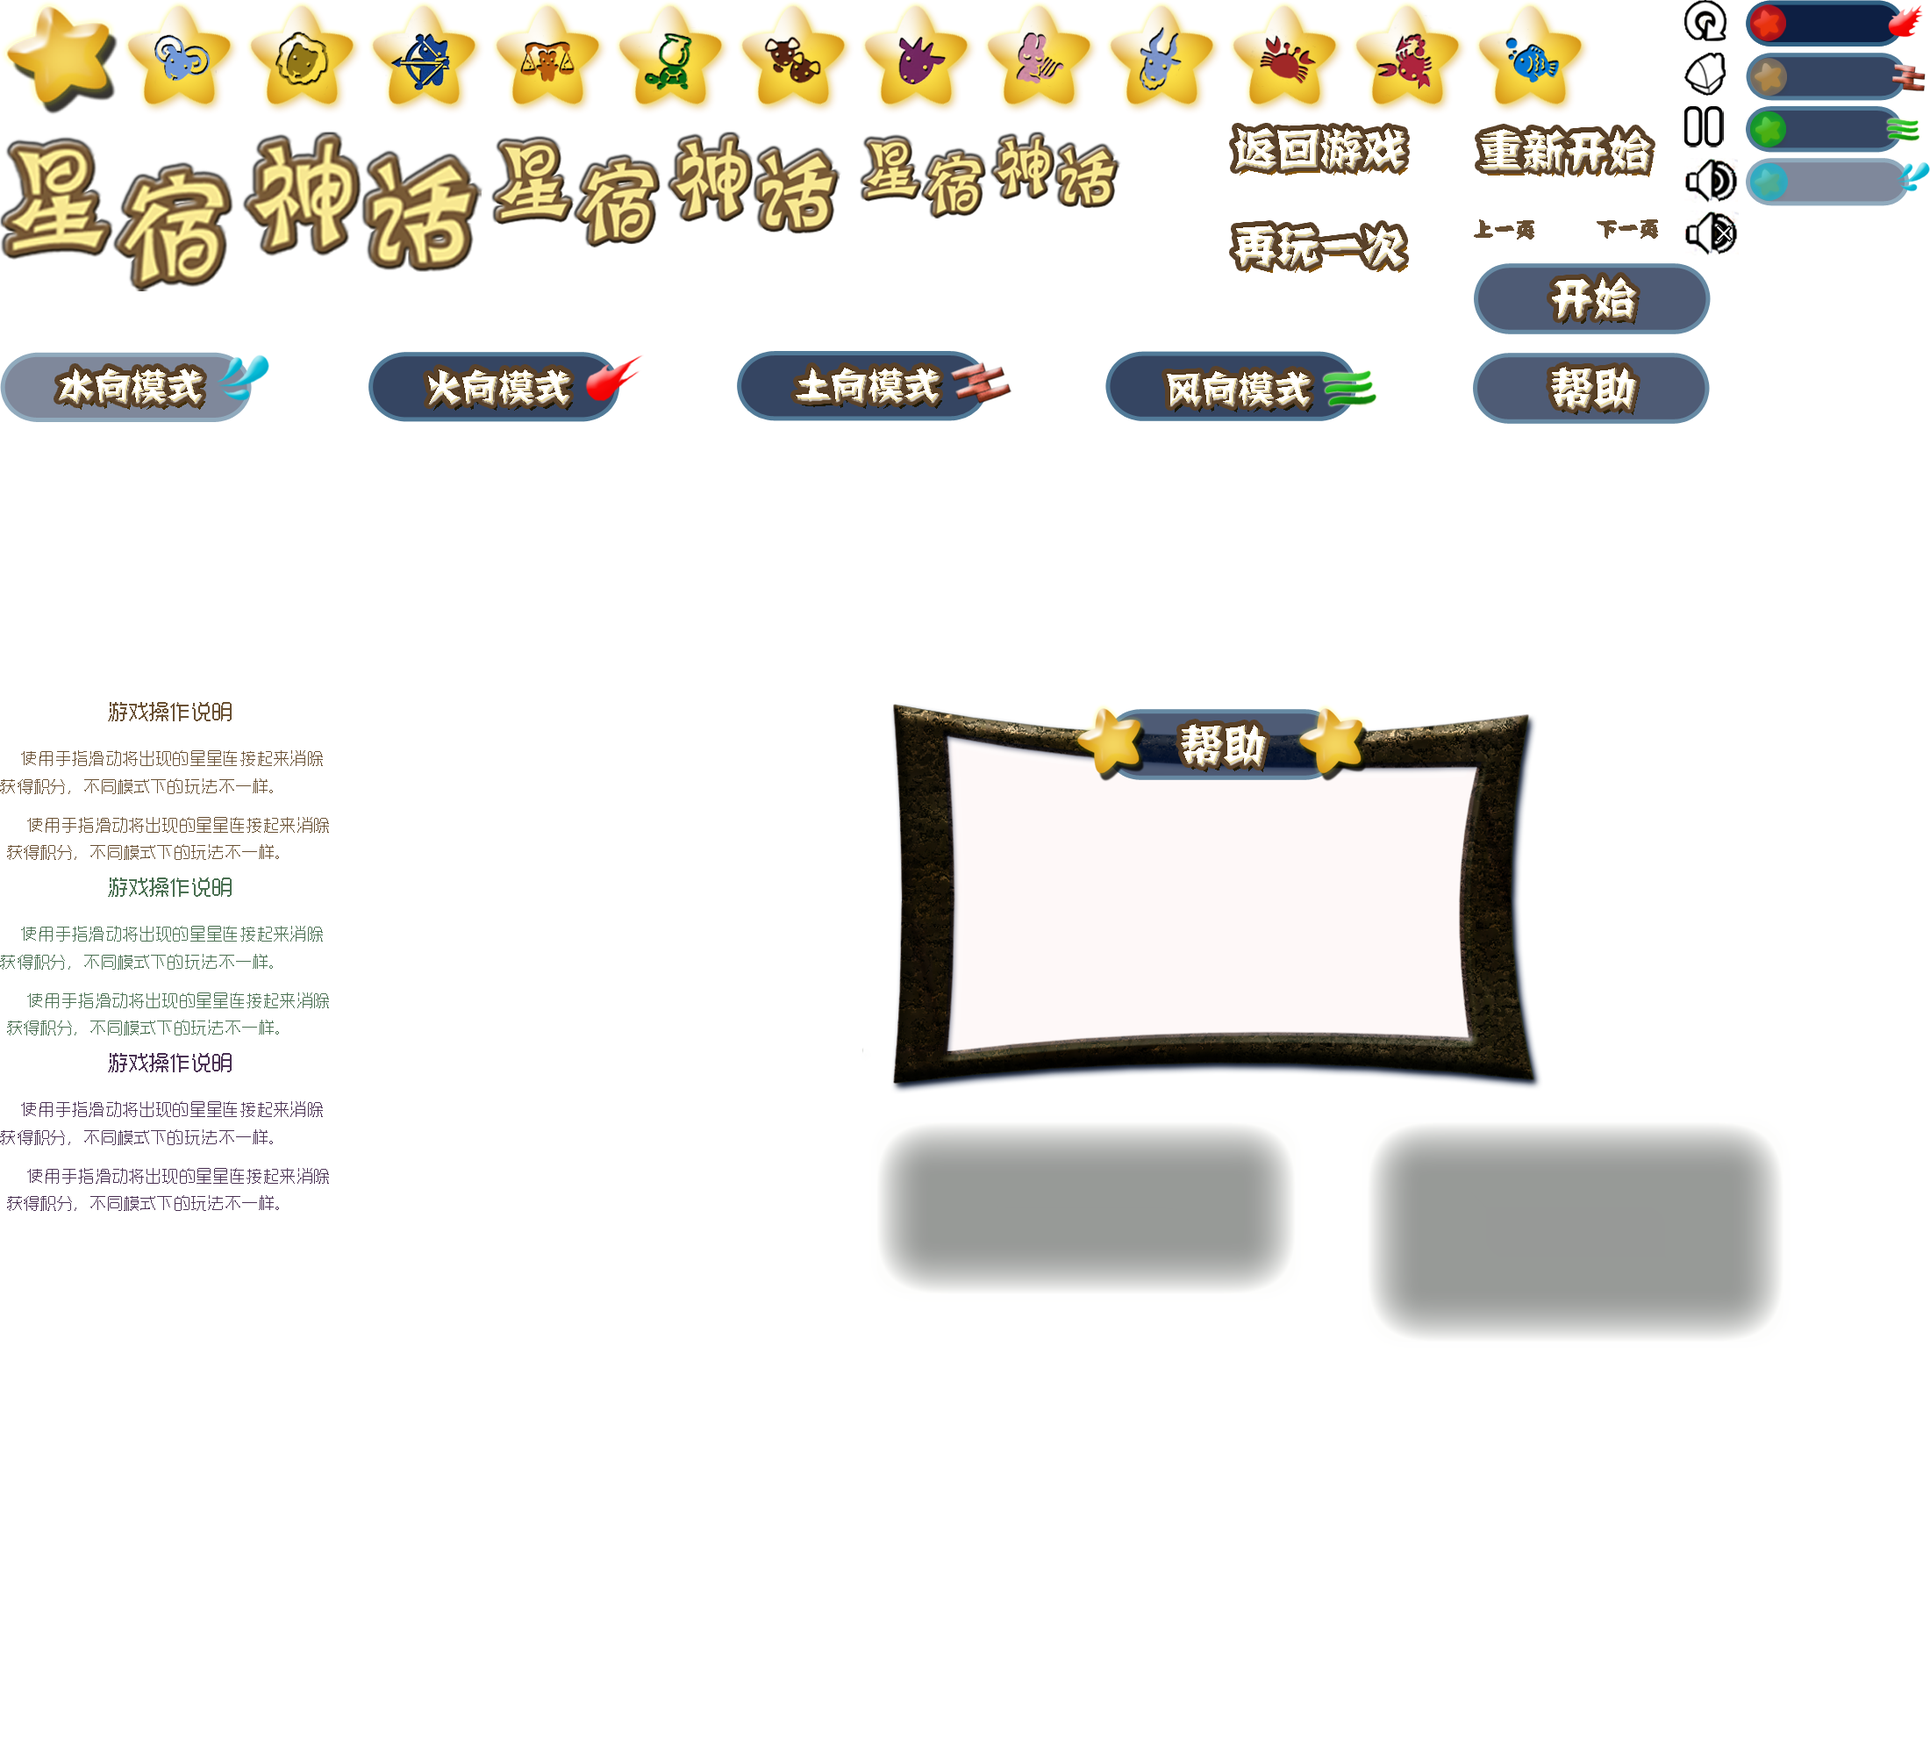
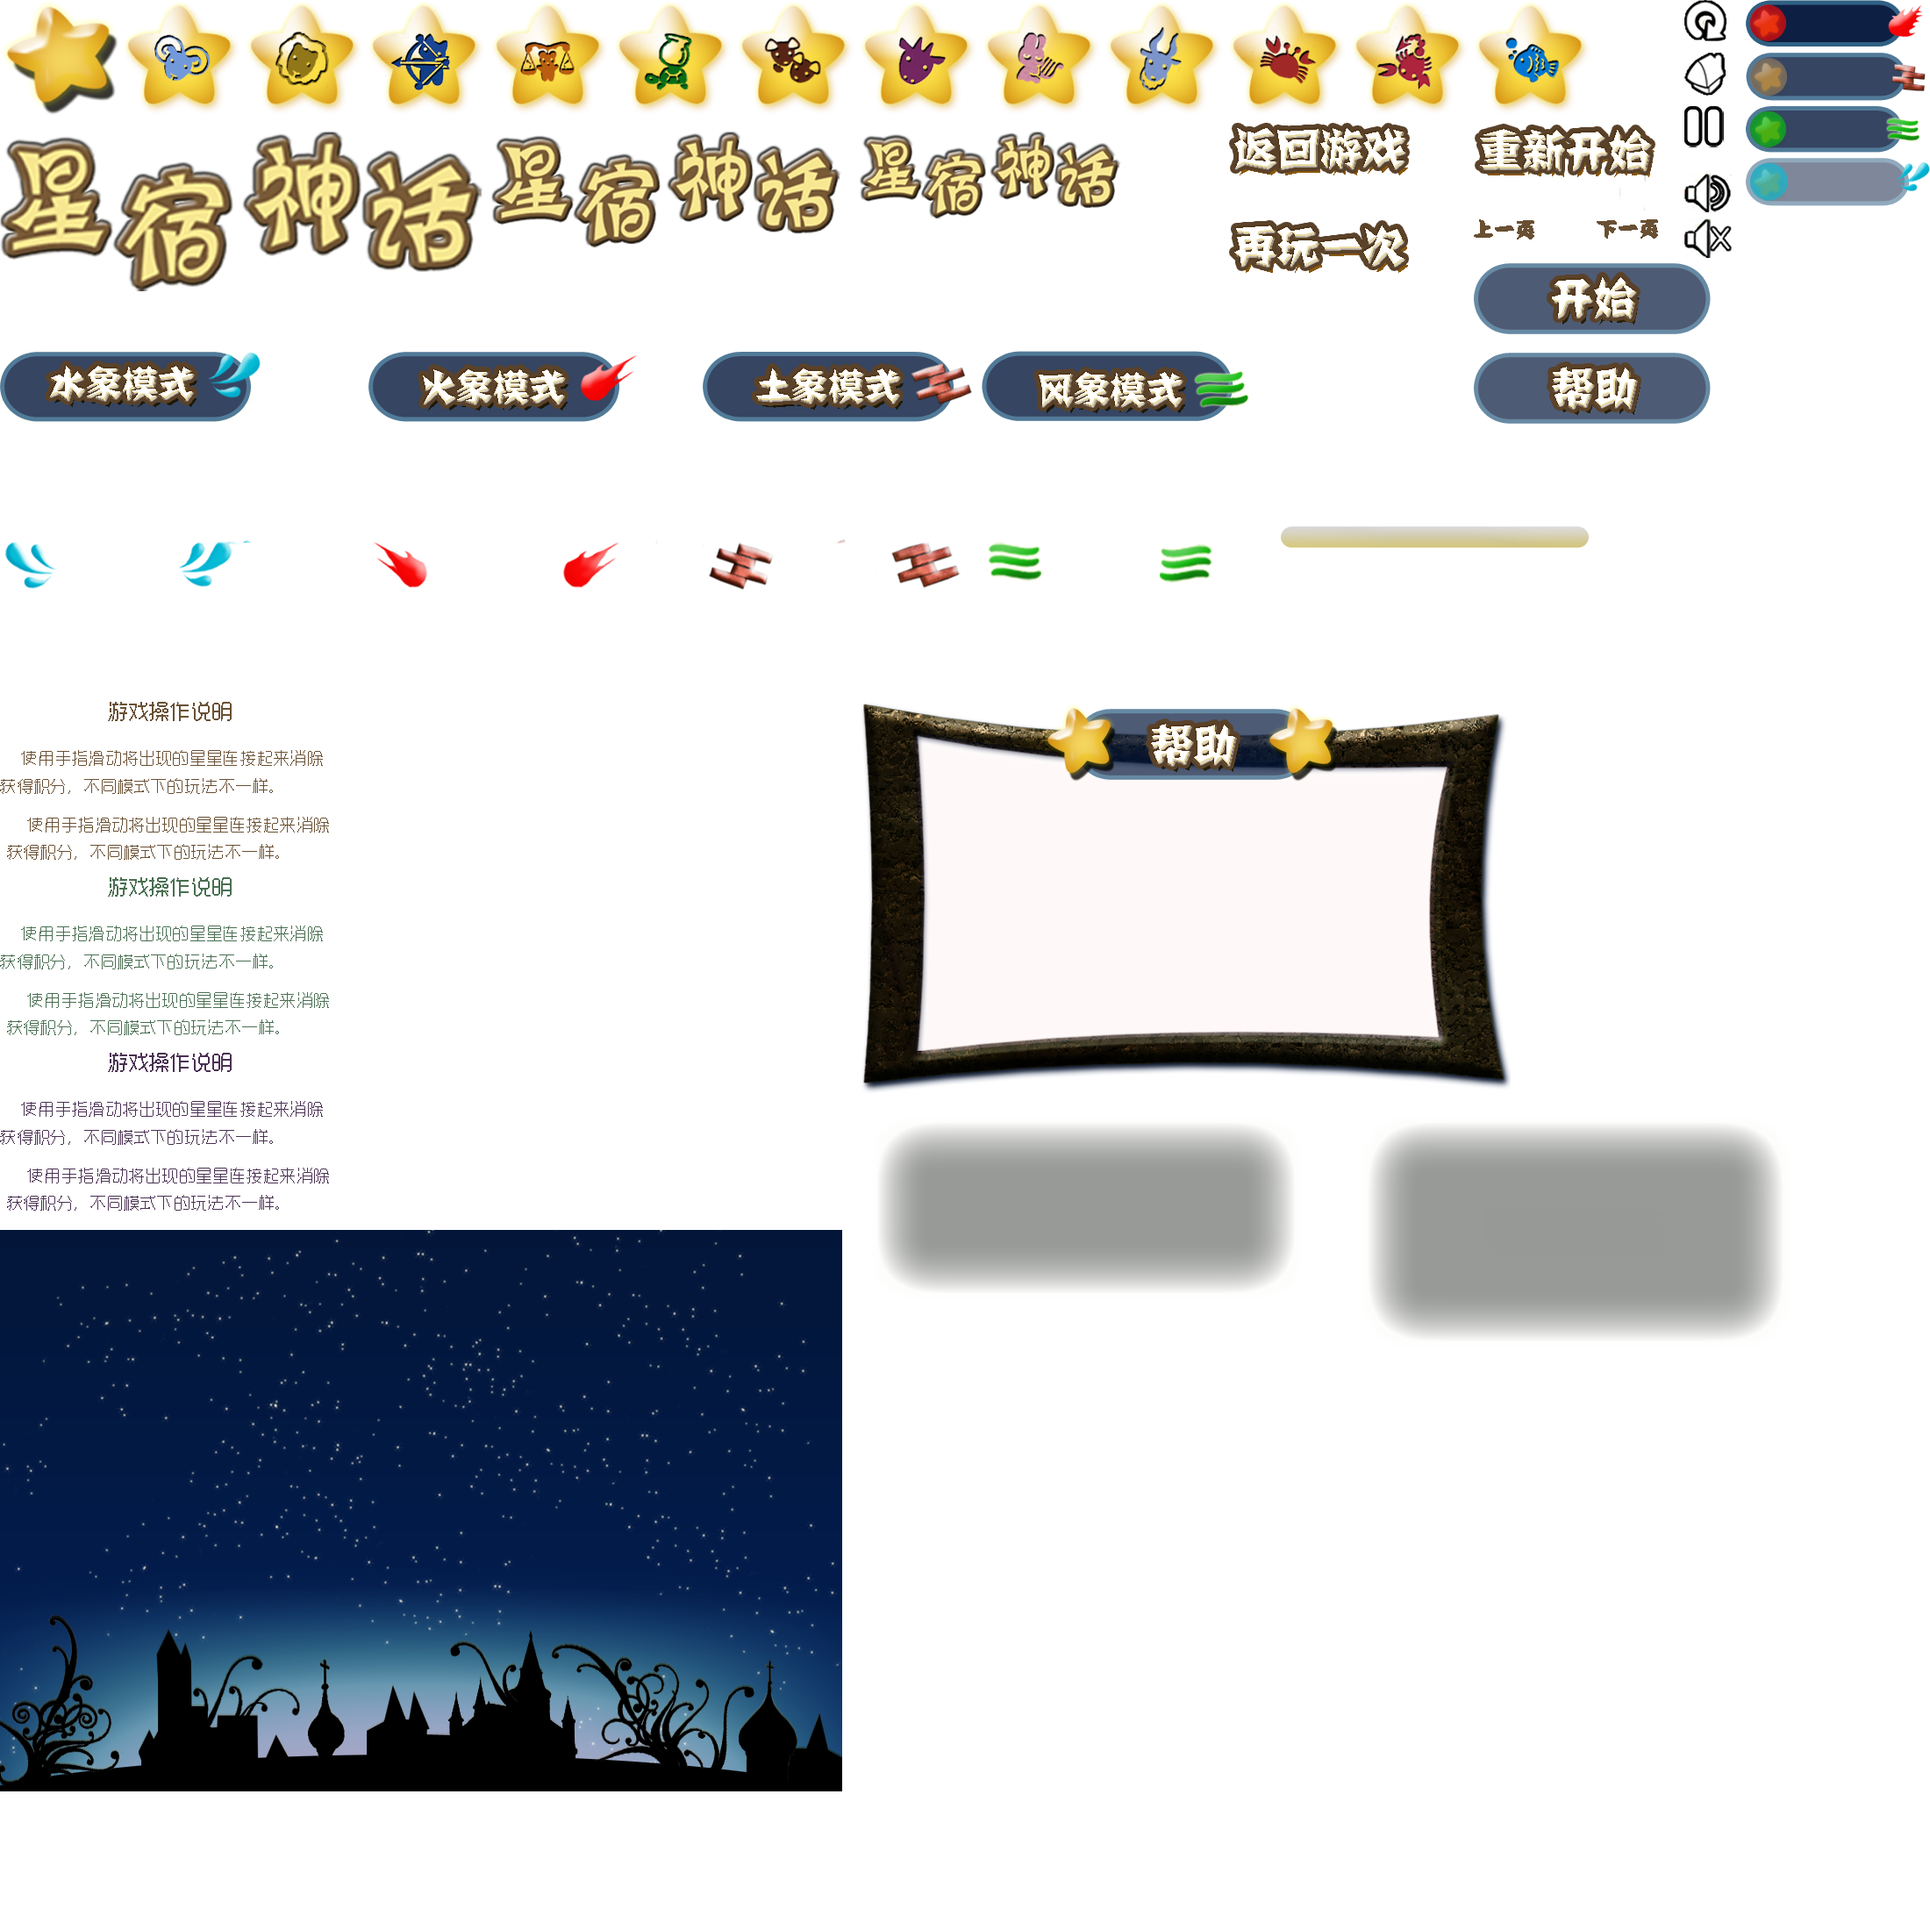
make screen ok

diff --git a/scripts/menu.js b/scripts/menu.js
@@ -8,8 +8,8 @@ myth.menu.pageclasses = (function() {
         screenWidth = variables.width(),
         screenHeight = variables.height(),
         soundsButton = new SoundsControl(),
-        backObject = Option(srcpos.back, {x: 790, y: 580}),
-        homeObject = Option(srcpos.home, {x: 790, y: 580});
+        backObject = Option(srcpos.back, {x: 793, y: 582}),
+        homeObject = Option(srcpos.home, {x: 793, y: 582});
 
     /**
     * @param o{object}:
@@ -44,8 +44,8 @@ myth.menu.pageclasses = (function() {
     }
 
     function SoundsControl() {
-      var onOption_ = Option(srcpos.on, {x: 870, y: 580}),
-          offOption_ = Option(srcpos.off, {x: 870, y: 580}),
+      var onOption_ = Option(srcpos.on, {x: 876, y: 582}),
+          offOption_ = Option(srcpos.off, {x: 876, y: 582}),
           soundsObjects_ = variables.sounds,
           current_ = onOption_;
 
@@ -68,9 +68,9 @@ myth.menu.pageclasses = (function() {
     //Pages Classes: Home/Start/Help/Pause/Gameover
     function Home() {
       var objects_ = {
-        logo: Option(srcpos.logo1, {x: 210, y: 30}),
-        start: Option(srcpos.start, {x: 341, y: 240}),
-        help: Option(srcpos.help, {x: 341, y: 360}),
+        logo: Option(srcpos.logo1, {x: 219, y: 18}),
+        start: Option(srcpos.start, {x: 349, y: 245}),
+        help: Option(srcpos.help, {x: 349, y: 340}),
         sound: soundsButton.option()
       },
       o = null; //历遍临时变量
@@ -109,11 +109,11 @@ myth.menu.pageclasses = (function() {
 
     function Start() {
       var objects_ = {
-        logo: Option(srcpos.logo2, {x: 265, y: 35}),
-        wind: Option(srcpos.wind, {x: 300, y: 200}),
-        water: Option(srcpos.water, {x: 300, y: 300}),
-        earth: Option(srcpos.earth, {x: 300, y: 400}),
-        fire: Option(srcpos.fire, {x: 300, y: 500}),
+        logo: Option(srcpos.logo2, {x: 280, y: 35}),
+        wind: Option(srcpos.wind, {x: 323, y: 501}),
+        water: Option(srcpos.water, {x: 323, y: 210}),
+        earth: Option(srcpos.earth, {x: 323, y: 404}),
+        fire: Option(srcpos.fire, {x: 323, y: 307}),
         sound: soundsButton.option(),
         back: backObject
       },
@@ -157,17 +157,16 @@ myth.menu.pageclasses = (function() {
     }
 
     function Help() {
-      var pageNumber_ = 3, //总页数
+      var pageNumber_ = 5, //总页数
           n = 1,
           o = null,
           pageObjects_ = [],
-          nextPage_ = Option(srcpos.nextPage, {x: 675, y: 480}),
-          prePage_ = Option(srcpos.prePage, {x: 250, y: 490}),
+          nextPage_ = Option(srcpos.nextPage, {x: 678, y: 478}),
+          prePage_ = Option(srcpos.prePage, {x: 210, y: 478}),
 
       objects_ = {
-        logo:Option(srcpos.logo3, {x: 355, y: 20}),
-        helpBackground:Option(srcpos.helpBackground, {x: 110, y: 140}),
-        page: null,
+        logo:Option(srcpos.logo3, {x: 333, y: 22}),
+        helpBackground:Option(srcpos.helpBackground, {x: 121, y: 136}),
         prePage: prePage_,
         nextPage: nextPage_,
         back: backObject,
@@ -185,17 +184,34 @@ myth.menu.pageclasses = (function() {
         } else if (n == pageNumber_) {
           objects_.nextPage = null;
         }
-        objects_.page = pageObjects_[m];
       }
 
       /**
       * @initialize
       */
-      for (var i = 1; i <= pageNumber_; i++) {
-        pageObjects_[i] = Option(srcpos['helpPage' + i], {x: 310, y: 235});
-      }
       objects_.prePage = null;
-      objects_.page = pageObjects_[1];
+      for (var i = 1; i <= 5; i++) pageObjects_[i] = {};
+      pageObjects_[1].headline = '游戏玩法说明';
+      pageObjects_[1].content = '滑动手指将出现的星星连接起来得分，不同模式下有不同的玩法';
+      pageObjects_[2].headline = '水象模式';
+      pageObjects_[2].content = '以最短的时间，连接一定数量的星星，以时间排行，游戏中有水雾模糊视线';
+      pageObjects_[3].headline = '火象模式';
+      pageObjects_[3].content = '在一分钟之内，连接尽可能多的星星，以积分排行';
+      pageObjects_[4].headline = '土象模式';
+      pageObjects_[4].content = '不限时间，但别碰到障碍物，碰到三次则失败，以积分排行';
+      pageObjects_[5].headline = '风象模式';
+      pageObjects_[5].content = '不限时间，尽量连到所有星星，落掉5个星星则失败，以积分排行';
+
+      function drawPage_(i) {
+        c.save();
+        c.textAlign = 'center';
+        c.fillStyle = '#694f31';
+        c.font = '40px Arial';
+        c.fillText(pageObjects_[i].headline, 495, 285, 200);
+        c.font = '25px Arial';
+        c.fillText(pageObjects_[i].content, 495, 340, 200);
+        c.restore();
+      }
 
 
       function draw_() {
@@ -207,6 +223,7 @@ myth.menu.pageclasses = (function() {
             objects_[o].spos.x(), objects_[o].spos.y(), objects_[o].width(), objects_[o].height(),
             objects_[o].dpos.x(), objects_[o].dpos.y(), objects_[o].width(), objects_[o].height());
         }
+        drawPage_(n);
         c.restore();
       }
 
@@ -242,9 +259,9 @@ myth.menu.pageclasses = (function() {
     function Pause() {
       var o = null,
       objects_ = {
-        shade: Option(srcpos.pauseShade, {x: 200, y:190}),
-        backGame: Option(srcpos.backGame, {x: 380, y: 220}),
-        retry: Option(srcpos.retry, {x: 380, y: 290}),
+        shade: Option(srcpos.pauseShade, {x: 236, y:200}),
+        backGame: Option(srcpos.backGame, {x: 310, y: 270}),
+        retry: Option(srcpos.retry, {x: 450, y: 270}),
         home: homeObject,
         sound: soundsButton.option()
       };
@@ -285,7 +302,7 @@ myth.menu.pageclasses = (function() {
       var o = null,
       objects_ = {
         sound: soundsButton.option(),
-        shade: Option(srcpos.overShade, {x: 210, y: 170}),
+        shade: Option(srcpos.overShade, {x: 236, y: 175}),
         again: Option(srcpos.again, {x: 380, y: 290}),
         home: homeObject
       };
@@ -329,7 +346,7 @@ myth.menu.pageclasses = (function() {
     function GameBackground() {
       var o = null,
       objects_ = {
-        pause: Option(srcpos.pause, {x: 790, y: 580}),
+        pause: Option(srcpos.pause, {x: 793, y: 582}),
         sound: soundsButton.option()
       };
 

diff --git a/scripts/base.js b/scripts/base.js
@@ -4,19 +4,20 @@ myth.base = {};
 myth.init = function() {
   myth.base.vars.canvas().width = myth.base.vars.width();
   myth.base.vars.canvas().height = myth.base.vars.height();
-//  myth.base.vars.canvas().addEventListener('click', myth.base.event.clickEvent.handler, false);
+  myth.base.vars.canvas().addEventListener('click', myth.base.event.clickEvent.handler, false);
   myth.base.vars.canvas().addEventListener('mousemove', myth.base.event.hoverEvent.handler, false);
   myth.base.vars.canvas().addEventListener('touchmove', myth.base.event.hoverEvent.handler, false);
-  myth.base.vars.canvas().addEventListener('touchend', myth.base.event.clickEvent.handler, false);
+//  myth.base.vars.canvas().addEventListener('touchend', myth.base.event.clickEvent.handler, false);
   myth.base.vars.sounds.bgsound.play();
 };
 
 myth.base.vars = (function() {
-    var width_ = null || 960,  //to do: get the screen resolution of mobile
-        height_ = null || 640,
-        interval_ = 1000 / 25,
+    var interval_ = 1000 / 25,
         canvas_ = document.getElementById('main'),
         ctx_ = document.getElementById('main').getContext('2d'),
+        wrap_ = document.getElementById('wrap'),
+        width_ = 960,
+        height_ = 640,
         backgroundMusic_ = new Audio('./sounds/bgsound.mp3'),
         hitsound_ = new Audio('./sounds/hit.wav'),
         src_ = 'images/pic.png';
@@ -40,12 +41,12 @@ myth.base.vars = (function() {
       back: {x: 1920, y: 0, width: 48, height: 47},
       home: {x: 1920, y: 60, width: 47, height: 49},
       pause: {x: 1920, y: 120, width: 45, height: 47},
-      on: {x: 1920, y: 180, width: 61, height: 51},
-      off: {x: 1920, y: 240, width: 61, height: 51},
-      water: {x: 0, y: 400, width: 307, height: 80},
-      fire: {x: 420, y: 400, width: 314, height: 81},
-      earth: {x: 840, y: 400, width:313, height: 80},
-      wind: {x: 1260, y: 400, width: 311, height: 80},
+      on: {x: 1920, y: 198, width: 61, height: 51},
+      off: {x: 1920, y: 250, width: 61, height: 51},
+      water: {x: 0, y: 400, width: 304, height: 80},
+      fire: {x: 420, y: 400, width: 304, height: 80},
+      earth: {x: 800, y: 400, width:304, height: 80},
+      wind: {x: 1120, y: 400, width: 304, height: 80},
       start: {x: 1680, y: 300, width: 270, height: 81},
       help: {x: 1680, y: 400, width: 270, height: 81},
       helpBackground: {x: 980, y: 800, width: 779, height: 447},
@@ -367,7 +368,6 @@ myth.base.classes = (function() {
           c.shadowColor = style_.color;
           break;
         }
-
       }
 
 
@@ -389,9 +389,6 @@ myth.base.classes = (function() {
             c.lineTo(points_[i].x(), points_[i].y());
             c.stroke();
           }
-          //        暂时去掉最后跟踪鼠标的连线
-          //        c.lineTo(last_.x(), last_.y());
-          //        c.stroke();
           c.restore();
         }
       };
@@ -503,5 +500,3 @@ myth.base.event = {
       };
   })()
 };
-
-

diff --git a/index.html b/index.html
@@ -2,17 +2,17 @@
 <html lang="en">
   <head>
     <meta charset="UTF-8">
-    <meta name="viewport" content="width=device-width, initial-scale=1.0, user-scalable=no"/>
+    <meta name="viewport" content="width=device-width; initial-scale=1.0; maximum-scale=1.0; minimum-scale=1.0; user-scalable=no;" />
     <meta name="apple-mobile-web-app-status-bar-style" content="black" />
     <title>星宿神话</title>
-    <meta name="viewport" content="width=device-width; initial-scale=1.0; maximum-scale=1.0; minimum-scale=1.0; user-scalable=no;" />
     <link rel="stylesheet" href="styles/jquery.mobile-1.0.min.css" type="text/css" />
     <link rel="stylesheet" href="styles/style.css" type="text/css" />
   </head>
   <body>
 
-    <div class="wrap">
-      <canvas id='main'>图片加载中</canvas>
+    <div id="wrap">
+      <div id="loading">loading...</div>
+      <canvas id='main'></canvas>
     </div>
 
     <script src="scripts/jquery-1.6.4.min.js" type="text/javascript"></script>
@@ -22,15 +22,15 @@
     <script src="scripts/animate.js" type="text/javascript"></script>
     <script type="text/javascript">
       $(function(){
+          window.scrollTo(0, 1); 
           var pic = new Image();
           pic.onload = function() {
-          $('main').html('');
-          myth.init();
-          myth.menu.main();
+            document.getElementById('loading').style.display = 'none';
+            myth.init();
+           myth.menu.main();
           };
           pic.src = myth.base.vars.src();
-          window.scrollTo(0, 1); 
-          });
-</script>
-      </body>
-    </html>
+        });
+    </script>
+  </body>
+</html>

diff --git a/styles/style.css b/styles/style.css
@@ -1,29 +1,39 @@
-.wrap{
-    background:url(../images/background.jpg) 0 0 no-repeat;
+#wrap{
+    width:960px;
+    height:640px;
+    background:url(../images/background.jpg) center center fixed;
+    -webkit-background-size: cover;
+    background-size: cover;
 }
 
-@media screen and (orientation:landscape) and (max-width:480px){
-    #main{  
-        width: 320px;   
-        height: 240px;
-    }
+#loading{
+    width:100%;
+    height:50px;
+    padding-top:30%;
+    font-size:60px;
+    color:#021841;
+    font-family:sans-serif;
+    text-align:center;
+    font-weight:bold;
 }
 
 @media screen and (orientation:landscape) and (min-width:480px) and (max-width:640px),(width:480px){
-    #main{
+    html, body, #wrap{
+        margin:0;
+        padding:0;
         width: 480px;
         height: 320px;
-    }
 }
-@media screen and (orientation:landscape) and (min-width:640px) and (max-width:960px),(width:640px){
+
     #main{
-        width: 640px;
-        height: 480px;
-    }
+        -webkit-transform-origin:left top;
+        -webkit-transform: scale(0.48);
 }
+}
+
 @media screen and (orientation:landscape) and (min-width:960px){
-    #main{
+    html,#wrap{
         width: 960px;
         height: 640px;
-    }
+}
 }
